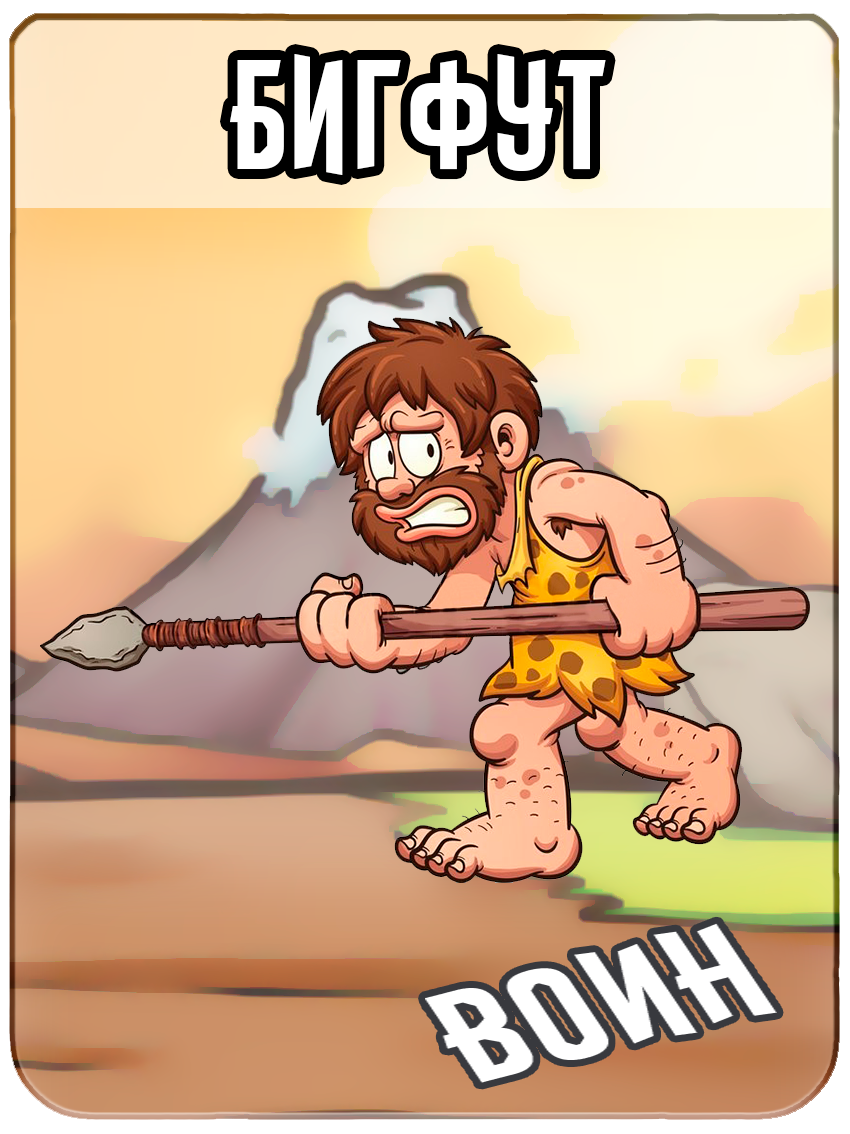
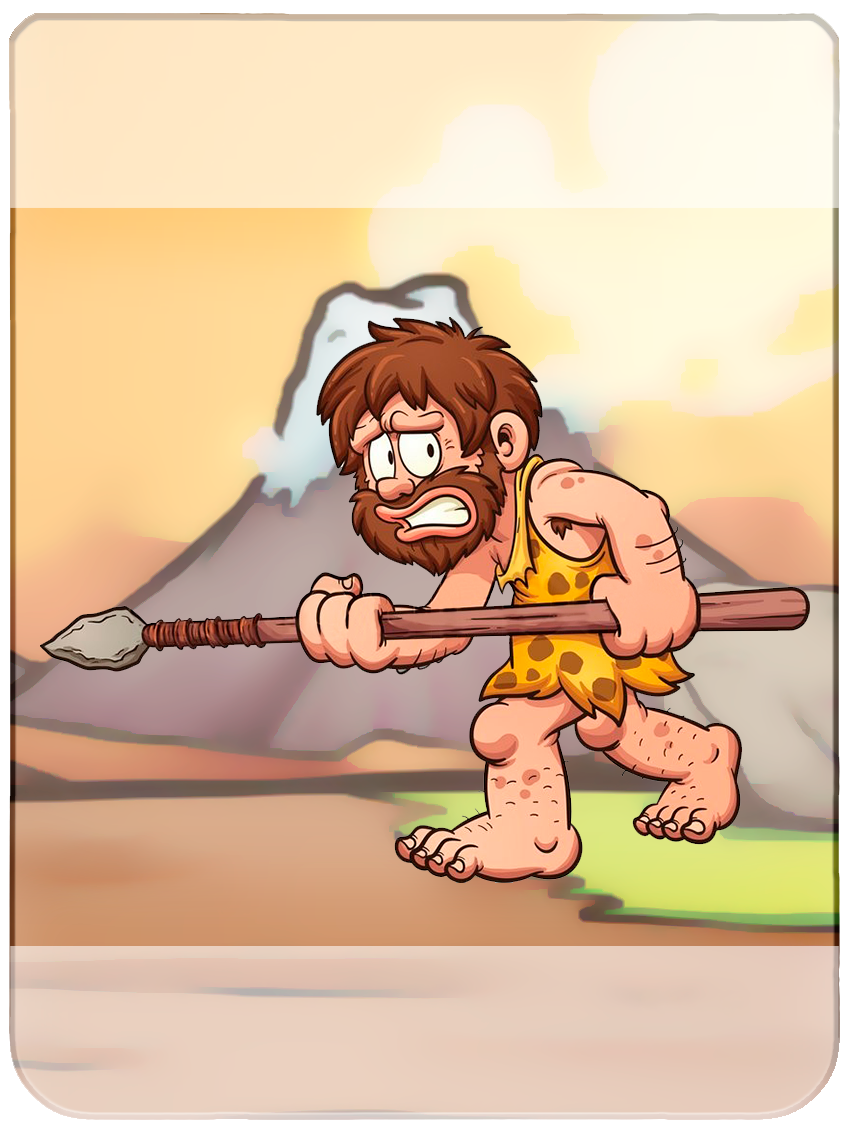
add nums in cards

Changed region(s): [[0.0, 0.8025, 1.0, 0.9877], [0.0, 0.0, 0.9788, 0.1852], [0.9788, 0.0309, 1.0, 0.1852]]

diff --git a/www/game.js b/www/game.js
@@ -1,8 +1,9 @@
 var tween = null;
 cardsArr=[];
-cardsArrText=[];cardsArrText2=[];
+cardsArrText=[];cardsArrText2=[];cardsArrText3=[];
 cardsArrWidth=[]
 ENEMY=[];
+ENEMYText=[];ENEMYText2=[];
 
 var Game = { 
     preload: function ()
@@ -79,11 +80,22 @@ var Game = {
 		game_desc.position.x=game_desc.width/3
         game_desc.scale.setTo(scaleRatio, scaleRatio);
 // ENEMY
-        for (var key in card_data) {
+        for (var key in user['cards']) {
             ENEMY[key] = game.add.sprite(window.innerWidth-game_desc.width/2, window.innerHeight/2,key)
             ENEMY[key].anchor.setTo(0.5, 0.5)
             ENEMY[key].visible = 0
             ENEMY[key].scale.setTo(scaleRatio/5.6, scaleRatio/5.6);
+
+
+            var style2 = { font: '32px "Shark"',  fill: '#333333', wordWrap: true, wordWrapWidth: ENEMY[key].width, align: "left" };
+            ENEMYText[key] = game.add.text(ENEMY[key].position.x, ENEMY[key].position.y, card_data[key]['data'].attack, style2);
+            ENEMYText[key].anchor.set(0,0);
+            ENEMYText[key].visible = 0
+
+            ENEMYText2[key] = game.add.text(ENEMY[key].position.x, ENEMY[key].position.y, card_data[key]['data'].health, style2);
+            ENEMYText2[key].anchor.set(0,0);
+            ENEMYText2[key].visible = 0
+
             // var style2 = { font: '32px "Shark"', fill: "#ff0044", wordWrap: true, wordWrapWidth: ENEMY[key].width, align: "center", backgroundColor: "#ffff00" };
             // text = game.add.text(0, 0, card_data[key]['data'].attack, style2);
         }
@@ -168,6 +180,10 @@ var Game = {
             cardsArrText2[key].anchor.set(0,0);
             cards.add(cardsArrText2[key])
             game.physics.enable(cardsArrText2[key], Phaser.Physics.ARCADE);
+            if(i>3){
+                cardsArrText2[key].visible=0
+                cardsArrText[key].visible=0
+            }
             
         }
         this.nextElem ()
@@ -198,25 +214,33 @@ var Game = {
 
         health_full.crop(crop_health_full);
         health_full_en.crop(crop_health_full_en);
-        curHel=fullHpYour
-        curHel_en=fullHpEnemy
+        curHel=0
+        curHel_en=0
     }, 
     update: function () 
     { 
         for (var key in user['cards']) {
-            cardsArrText[key].x = cardsArr[key].x-cardsArr[key].width/2+5;
-            cardsArrText[key].y = cardsArr[key].y-cardsArr[key].height/2+2;
+            YOUR_CARD=cardsArr[key]
+            margin=5
+            cardsArrText[key].x = YOUR_CARD.x-YOUR_CARD.width/2+margin*1.5;
+            cardsArrText[key].y = YOUR_CARD.y-YOUR_CARD.height/2+margin;
             cards.add(cardsArrText[key])
 
-            cardsArrText2[key].x = cardsArr[key].x+cardsArr[key].width/2-cardsArrText2[key].width-5;
-            cardsArrText2[key].y = cardsArr[key].y-cardsArr[key].height/2+2;
+            cardsArrText2[key].x = YOUR_CARD.x+YOUR_CARD.width/2-cardsArrText2[key].width-margin*1.5;
+            cardsArrText2[key].y = YOUR_CARD.y-YOUR_CARD.height/2+margin;
             cards.add(cardsArrText2[key])
+
+            ENEMYText[key].x = ENEMY[key].x-ENEMY[key].width/2+5;
+            ENEMYText[key].y = ENEMY[key].y-ENEMY[key].height/2+2;
+
+            ENEMYText2[key].x = ENEMY[key].x+ENEMY[key].width/2-ENEMYText2[key].width-5;
+            ENEMYText2[key].y = ENEMY[key].y-ENEMY[key].height/2+2;
             // cardsArrText[key].scale=cardsArr[key].scale
         }
 
         if(curHel!=gameMem.player.hp){
 
-            health_bar.text=fullHpYour+"/"+gameMem.player.hp
+            health_bar.text=gameMem.player.hp+"/"+fullHpYour
             health_full_height=health_full.height*(gameMem.player.hp/fullHpYour)
             crop_health_full.height=health_full_height
             health_full.updateCrop();
@@ -224,7 +248,7 @@ var Game = {
         }
 
         if(curHel_en!=gameMem.enemy.hp){
-            health_bar_enemy.text=fullHpEnemy+"/"+gameMem.enemy.hp
+            health_bar_enemy.text=gameMem.enemy.hp+"/"+fullHpEnemy
             health_full_height_en=health_full_en.height*(gameMem.enemy.hp/fullHpEnemy)
             crop_health_full_en.height=health_full_height_en
             health_full_en.updateCrop();
@@ -243,9 +267,13 @@ var Game = {
         elem=cardsArr[gameMem.stack.cards[gameMem.stack.cards.length-1]]
         // if(elem!=undefined){
             elem.visible=1
-            cardsArrText[elem.key].visible
-            cardsArrText2[elem.key].visible
+            cardsArrText[elem.key].visible=1
+            cardsArrText2[elem.key].visible=1
+
+            cardsArrText[elem.key].scale={x:scaleRatio/1.5, y:scaleRatio/1.5}
+            cardsArrText2[elem.key].scale={x:scaleRatio/1.5, y:scaleRatio/1.5}
             elem.scale={x:(scaleRatio/5.6)/1.5, y:(scaleRatio/5.6)/1.5}
+
             elem.input.draggable = false;
             elem.position.x=0 + elem.width/2,
             elem.position.y=window.innerHeight - elem.height/2
@@ -263,6 +291,13 @@ var Game = {
         // elem.position.copyFrom(card_desc.position); 
         var tween3 = game.add.tween(elem.scale).to({
             x:(scaleRatio/5.6), y:(scaleRatio/5.6)
+        }, 200, Phaser.Easing.Bounce.InOut, true);
+
+        var tweent = game.add.tween(cardsArrText[elem.key].scale).to({
+            x:(scaleRatio), y:(scaleRatio)
+        }, 200, Phaser.Easing.Bounce.InOut, true);
+        var tweent = game.add.tween(cardsArrText2[elem.key].scale).to({
+            x:(scaleRatio), y:(scaleRatio)
         }, 200, Phaser.Easing.Bounce.InOut, true);
 
         visible = game.add.tween(elem.position).to({
@@ -336,6 +371,14 @@ var Game = {
         // game.world.bringToTop(cardsArrText[obj.key])
         // Phaser.Easing.Elastic.Out
         tween = Game.add.tween(obj.scale).to( { x:(scaleRatio+0.2)/5.6, y:(scaleRatio+0.2)/5.6 }, 100, Phaser.Easing.Linear.None, true);
+
+        var tweent = game.add.tween(cardsArrText[obj.key].scale).to({
+            x:(scaleRatio+0.2), y:(scaleRatio+0.2)
+        }, 100, Phaser.Easing.Bounce.InOut, true);
+        var tweent = game.add.tween(cardsArrText2[obj.key].scale).to({
+            x:(scaleRatio+0.2), y:(scaleRatio+0.2)
+        }, 100, Phaser.Easing.Bounce.InOut, true);
+
     },
     randomInteger: function (min, max) {
         var rand = min + Math.random() * (max + 1 - min);
@@ -349,6 +392,12 @@ var Game = {
             return;
         }
         tween = Game.add.tween(obj.scale).to( { x:(scaleRatio/5.6), y:(scaleRatio/5.6) }, 100, Phaser.Easing.Linear.None, true);
+        var tweent = game.add.tween(cardsArrText[obj.key].scale).to({
+            x:(scaleRatio), y:(scaleRatio)
+        }, 100, Phaser.Easing.Bounce.InOut, true);
+        var tweent = game.add.tween(cardsArrText2[obj.key].scale).to({
+            x:(scaleRatio), y:(scaleRatio)
+        }, 100, Phaser.Easing.Bounce.InOut, true);
 
         Card.remove(obj.key,gameMem.player.cards,gameMem.player.cardPlace)
 
@@ -400,6 +449,9 @@ var Game = {
     
         game.world.bringToTop(elem)
         enemy.visible=1
+        if(whose!='enemy'){ENEMYText[elem.key].visible=1;ENEMYText2[elem.key].visible=1;}
+        else{ENEMYText[enemy.key].visible=1;ENEMYText2[enemy.key].visible=1;}
+        
         visible = game.add.tween(elem).to({
             alpha:1
         }, 500, Phaser.Easing.Linear.None, true);
@@ -420,7 +472,7 @@ var Game = {
                 var tween3 = game.add.tween(elem.scale).to({
                  x:(scaleRatio/5.6), y:(scaleRatio/5.6)
                 }, 200, Phaser.Easing.Bounce.InOut, true);
-                clash.play();
+                // clash.play();
                 tween3.onComplete.add(function() {  
                     if(whose!='enemy'){quake2.visible = 1}
                     else{quake.visible = 1}                

diff --git a/www/menu.js b/www/menu.js
@@ -316,8 +316,9 @@ var Cards =
         he=bg.height
         bg.height = game.height;
         bg.width = (bg.height/he)*bg.width;
-        cards = this.add.button(0, window.innerHeight-121, 'butt_in', this.inMenu, this); 
+        cards = this.add.button(window.innerWidth/2, window.innerHeight-121, 'butt_in', this.inMenu, this); 
         cards.scale.setTo(scaleRatio, scaleRatio);
+
         i=0
         for (var key in user["cards"]) {
             string=(i>2?(i/5-(i%5)/5):0)
@@ -328,6 +329,25 @@ var Cards =
             he=user_cards[key].height
             //user_cards[key].scale.setTo(scaleRatio, scaleRatio);
             user_cards[key].anchor.setTo(0, 0);
+
+            var style2 = { font: '32px "Shark"',  fill: '#333333', wordWrap: true, wordWrapWidth: user_cards[key].width, align: "left" };
+            var margin = 30;
+
+            cardsArrText[key] = game.add.text(user_cards[key].position.x, user_cards[key].position.y, card_data[key]['data'].attack, style2);
+            cardsArrText[key].anchor.set(0,0);
+
+            cardsArrText2[key] = game.add.text(user_cards[key].position.x, user_cards[key].position.y, card_data[key]['data'].health, style2);
+            cardsArrText2[key].anchor.set(0,0);
+
+            cardsArrText3[key] = game.add.text(user_cards[key].position.x+user_cards[key].width/3, user_cards[key].position.y+user_cards[key].height/1.15, user["cards"][key], style2);
+            cardsArrText3[key].anchor.set(0,0);
+
+            cardsArrText[key].x = cardsArrText[key].x-cardsArrText[key].width/2+margin;
+            cardsArrText[key].y = cardsArrText[key].y-cardsArrText[key].height/2+margin*1.5;
+
+            cardsArrText2[key].x = cardsArrText2[key].x+cardsArrText2[key].width/2-cardsArrText2[key].width-margin;
+            cardsArrText2[key].y = cardsArrText2[key].y-cardsArrText2[key].height/2+margin*1.5;
+
             i++
         }
     },
